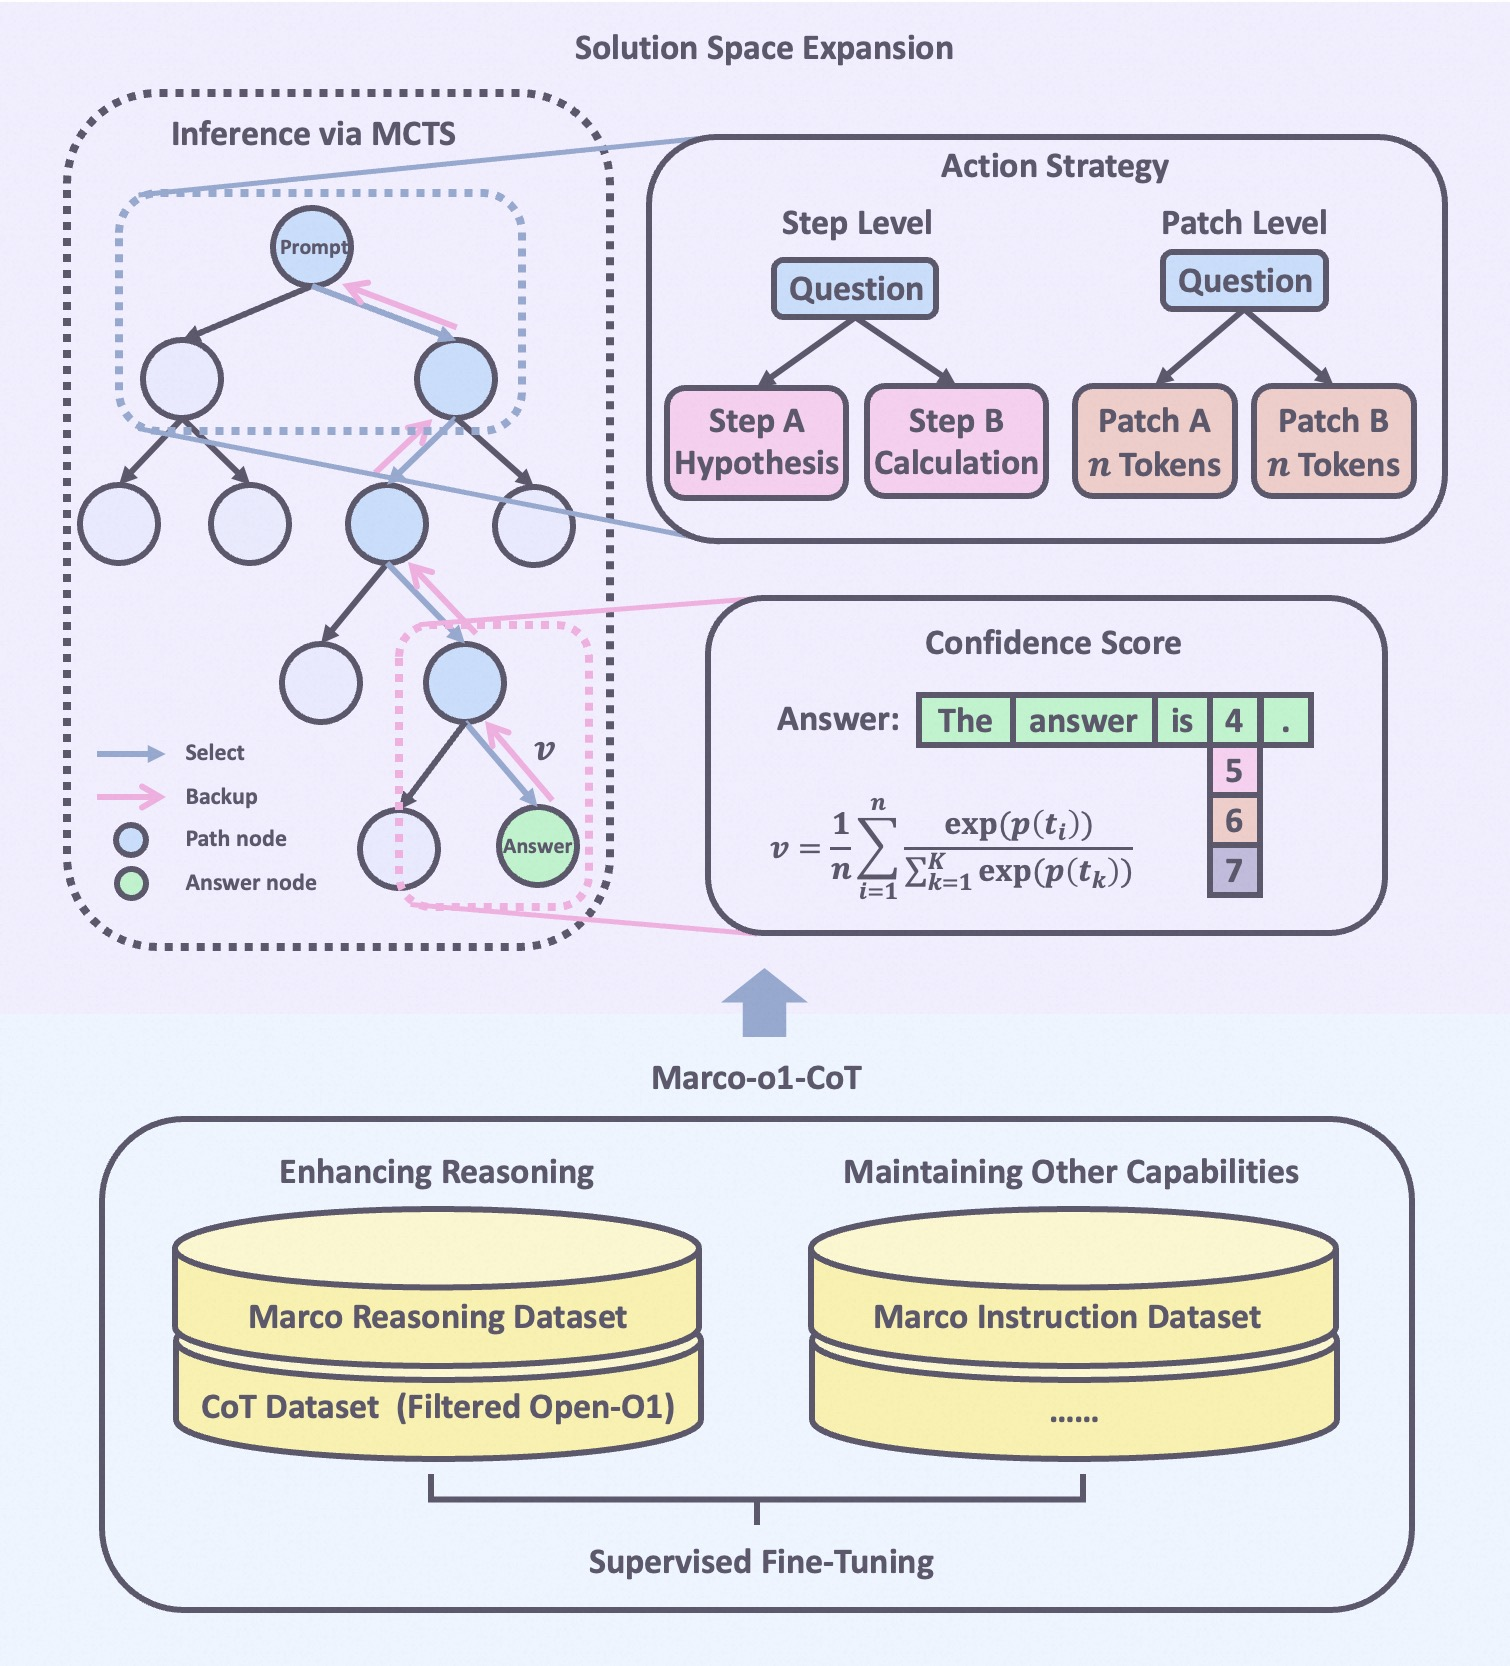
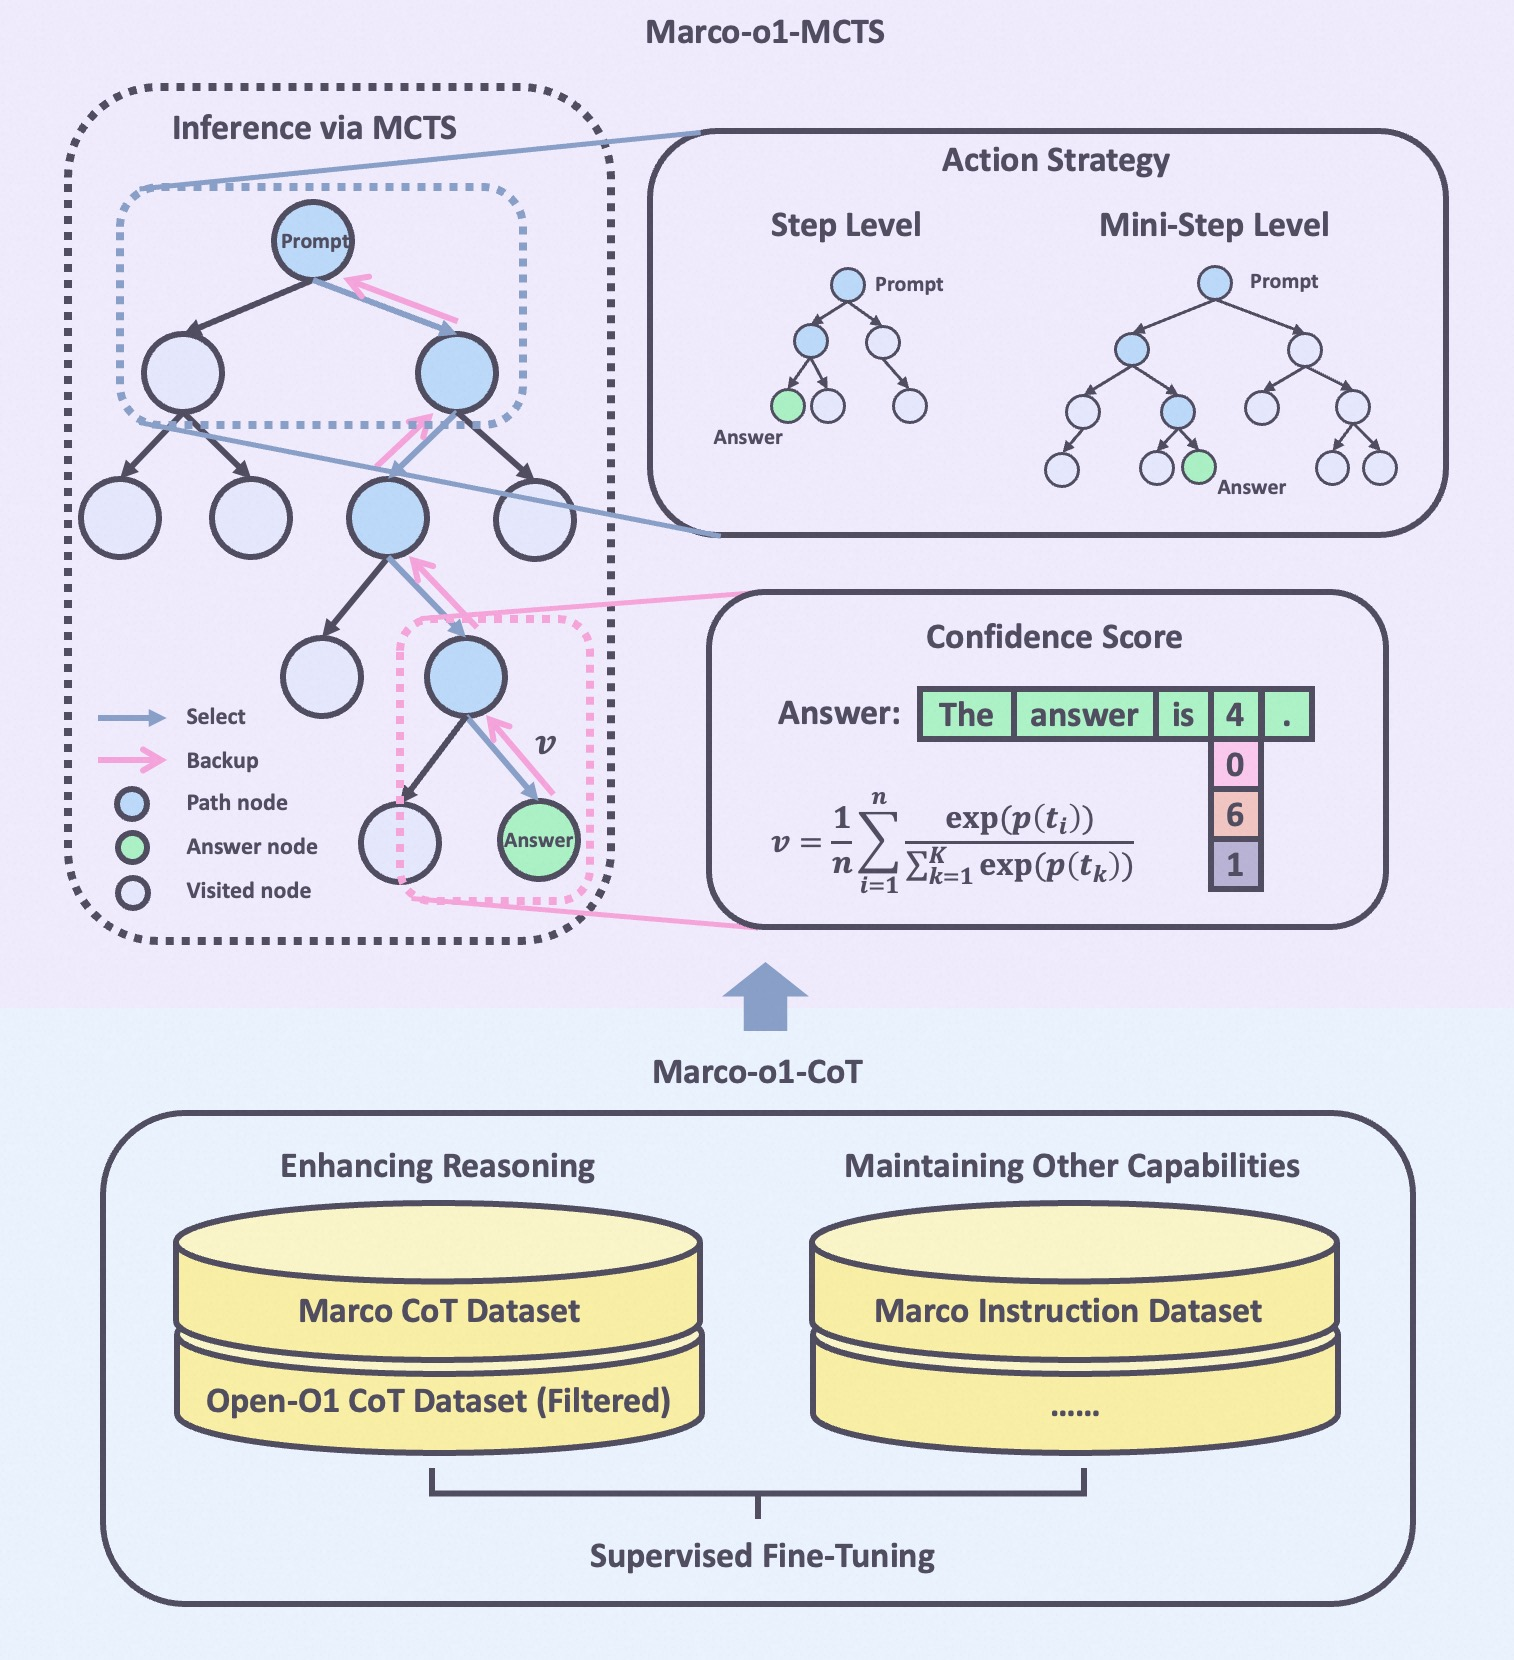
update

diff --git a/README.md b/README.md
@@ -62,10 +62,13 @@ This is a classic example from our Marco-o1 model, "How many 'r's are in the wor
 </div>
 
 
-## Fine-Tuning with CoT Data
+## Datasets
 
-To enhance the reasoning capabilities of the Marco-o1 model, we conducted fine-tuning using a combination of datasets tailored to improve various aspects of the model's performance. We utilized the Marco Reasoning Dataset, specifically developed to challenge and enhance the model's ability to handle complex reasoning tasks. Additionally, we employed the Chain-of-Thought (CoT) Dataset, originally proposed in the Open-O1 project, which we refined through a filtering process to ensure high-quality data for training. This filtered CoT Dataset helps the model leverage structured reasoning patterns, thereby improving its capability to follow logical steps in problem-solving. Furthermore, to maintain the model's general competencies across various tasks, we incorporated the Marco Instruction Dataset along with other diverse datasets. This combination allows the model to retain proficiency in a wide range of domains and tasks, ensuring well-rounded performance. By collectively employing these datasets during fine-tuning, we significantly enhanced the reasoning prowess of the Marco-o1 model while preserving its overall effectiveness in broader applications. This strategic balance of data optimizes the model for its primary goal of reasoning without compromising its utility in other areas.
+To enhance the reasoning capabilities of the Marco-o1 model, we employed a supervised fine-tuning strategy using a variety of datasets.
 
+**CoT Data:** We generated the Marco CoT Dataset using MCTS, which helped to formulate complex reasoning pathways. Additionally, we improved the Open-O1 project's CoT Dataset by applying a heuristic and quality filtering process, allowing the model to adopt structured reasoning patterns effectively.
+
+**Instruction Following Data:** Recognizing the critical role of robust instruction-following capabilities in executing complex tasks, we used a set of instruction-following data. Furthermore, to ensure that the model retains some specific knowledge, we integrated some other SFT datasets. This combination ensures the model remains competent across a wide range of tasks, maintaining its general effectiveness while significantly boosting its reasoning flair.
 
 ## Solution Space Expansion via MCTS
 
@@ -184,9 +187,9 @@ These results demonstrate the effectiveness of our approach in enhancing the rea
 
 ## ⚡ Available Models and Datasets
 
-[Marco-o1](https://huggingface.co) (Our Reasoning Model)
+[Marco-o1](https://huggingface.co/AIDC-AI/Marco-o1) (Our Lastest Model)
 
-[Marco Reasoning Dataset](https://huggingface.co) (Our Dataset)
+[Marco Reasoning Dataset](https://github.com/AIDC-AI/Marco-o1/blob/main/data/CoT_demo.json) (Our Partial Dataset)
 
 ## Installation
 
